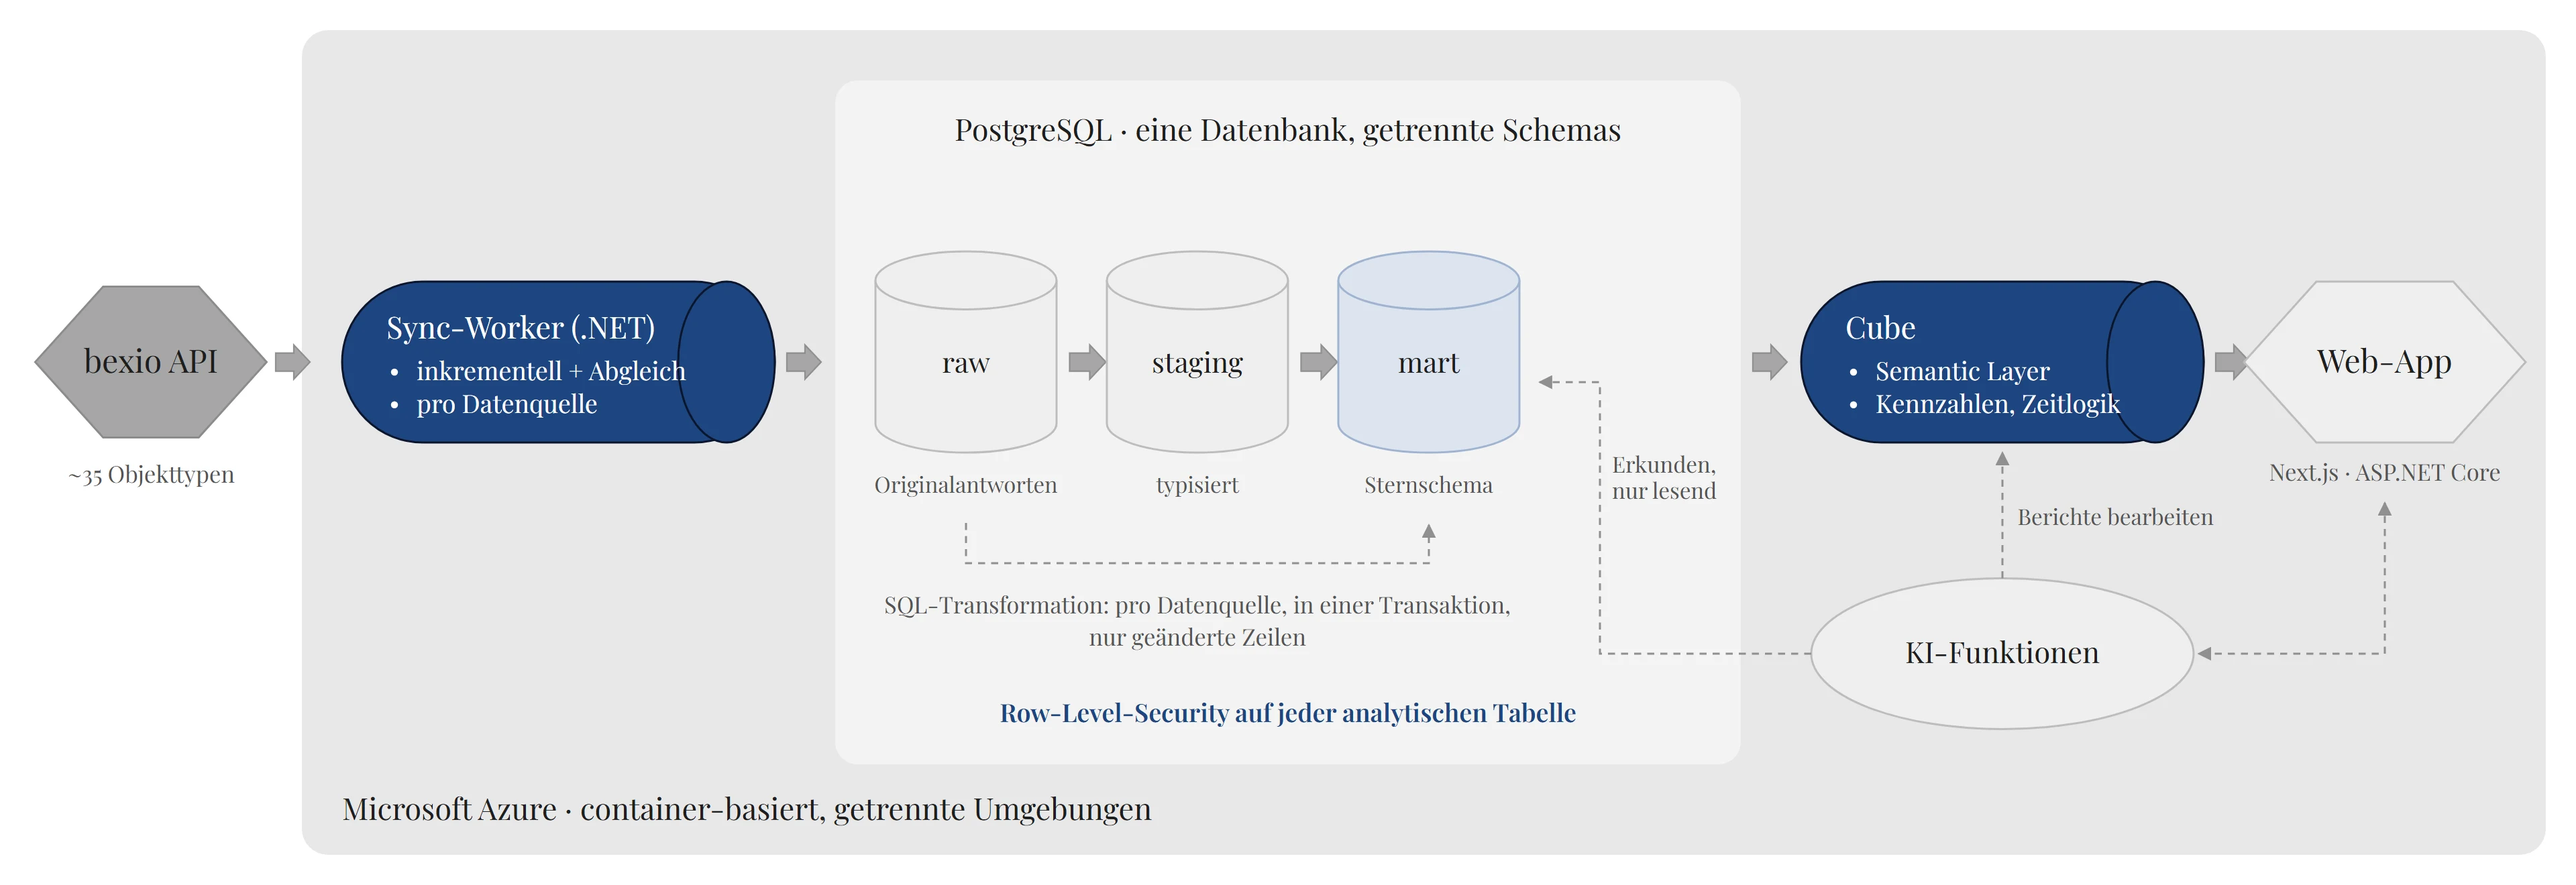
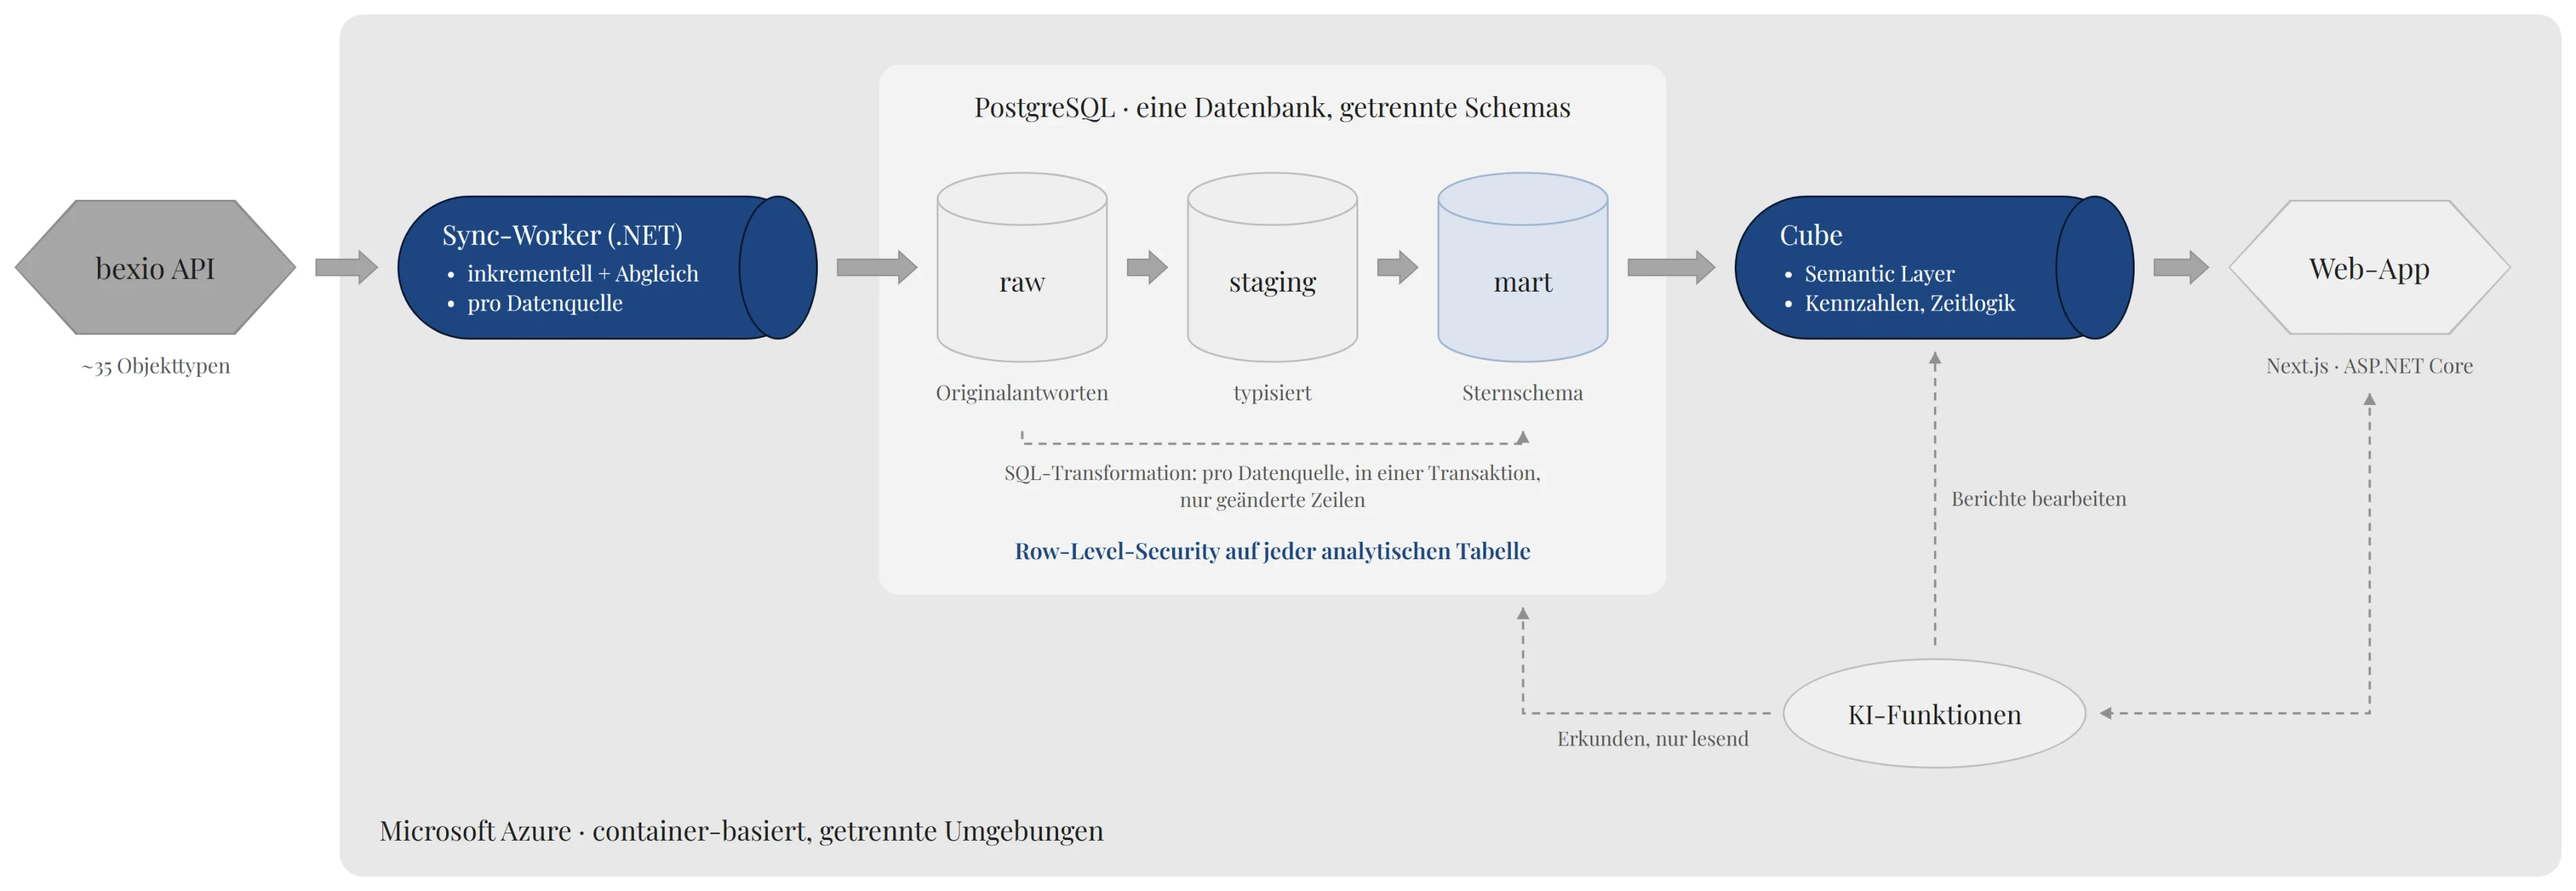
Rework connectors in smiit Analytics blog diagrams
Re-laid out the architecture, tenant-isolation and AI report-editing
diagrams (DE + EN): arrows now sit in their own gutters with clearance to
shapes and text, pill text no longer runs into the cylinder caps, and the
AI-editing steps are joined by a stepper line between the headings.
Content is unchanged; image dimensions updated accordingly.

diff --git a/content/blog/smiit-analytics-from-power-bi-to-saas.ts b/content/blog/smiit-analytics-from-power-bi-to-saas.ts
@@ -21,7 +21,7 @@ const smiitAnalyticsSaas: LocalizedBlogPost = {
     coverImage: {
       url: `${SA}/ai-report-editing.webp`,
       width: 1950,
-      height: 1013,
+      height: 1054,
       alt: "Berichte bearbeiten mit KI in smiit Analytics: Anweisung im Chat, Editor passt den Bericht an, KI erklärt die Änderungen",
     },
 
@@ -167,7 +167,7 @@ const smiitAnalyticsSaas: LocalizedBlogPost = {
         type: "image",
         src: `${SA}/architecture.webp`,
         width: 3840,
-        height: 1320,
+        height: 1329,
         maxWidth: 1040,
         alt: "Datenfluss von smiit Analytics: Die bexio API wird vom .NET-Sync-Worker gelesen, in PostgreSQL über die Schemas raw, staging und mart (Sternschema) aufbereitet, im Semantic Layer Cube modelliert und in der Web-App (Next.js, ASP.NET Core) angezeigt. KI-Funktionen bearbeiten Berichte über Cube und erkunden das mart-Schema nur lesend. Alles läuft auf Microsoft Azure.",
         caption: "Von der bexio API bis zum Bericht: eine Datenbank mit getrennten Schemas, ein zentraler Semantic Layer und Row-Level-Security auf jeder analytischen Tabelle.",
@@ -225,8 +225,8 @@ const smiitAnalyticsSaas: LocalizedBlogPost = {
       {
         type: "image",
         src: `${SA}/tenant-isolation.webp`,
-        width: 3600,
-        height: 1230,
+        width: 3840,
+        height: 1034,
         maxWidth: 1040,
         alt: "Drei Verteidigungslinien der Mandantentrennung: Berechtigung auf die Datenquelle, Kontext je Transaktion und Row-Level-Security mit FORCE. In der Datenbank sind für eine Anfrage von Firma A nur die Zeilen von Firma A sichtbar; Isolationstests prüfen gezielt Fremdzugriffe.",
         caption: "Mehrere Verteidigungslinien: Selbst wenn der Anwendungscode einen Filter vergisst, sieht eine Anfrage von Firma A nur die Zeilen von Firma A.",
@@ -368,7 +368,7 @@ const smiitAnalyticsSaas: LocalizedBlogPost = {
         type: "image",
         src: `${SA}/ai-report-editing.webp`,
         width: 1950,
-        height: 1013,
+        height: 1054,
         maxWidth: 1040,
         alt: "Berichte bearbeiten mit KI in drei Schritten: 1. Anweisung im Chat „Bitte zeige mir Cashflow und Deckungsbeitrag auf der Übersichtsseite und auch im Graphen als Entwicklung an.“ 2. Der Editor arbeitet am Bericht. 3. Die KI erklärt die Änderungen, weist darauf hin, dass der Deckungsbeitrag wegen fehlender interner Kostensätze leer ist, und listet vier Vorschläge für die Ansicht; übermittelt wurden 8 Zeilen und 0 Pseudonyme.",
         caption: "Berichte bearbeiten mit KI: Die KI arbeitet im Editor und liefert Vorschläge. Angewendet wird erst mit «Übernehmen».",
@@ -633,7 +633,7 @@ const smiitAnalyticsSaas: LocalizedBlogPost = {
     coverImage: {
       url: `${SA}/ai-report-editing-en.webp`,
       width: 1950,
-      height: 1035,
+      height: 1050,
       alt: "Editing reports with AI in smiit Analytics: instruction in the chat, the editor updates the report, the AI explains the changes",
     },
 
@@ -779,7 +779,7 @@ const smiitAnalyticsSaas: LocalizedBlogPost = {
         type: "image",
         src: `${SA}/architecture-en.webp`,
         width: 3840,
-        height: 1320,
+        height: 1323,
         maxWidth: 1040,
         alt: "smiit Analytics data flow: the .NET sync worker reads the bexio API, the data is prepared in PostgreSQL across the raw, staging and mart (star schema) schemas, modelled in the Cube semantic layer and displayed in the web app (Next.js, ASP.NET Core). AI features edit reports via Cube and explore the mart schema read-only. Everything runs on Microsoft Azure.",
         caption: "From the bexio API to the report: one database with separate schemas, a central semantic layer and row-level security on every analytical table.",
@@ -837,8 +837,8 @@ const smiitAnalyticsSaas: LocalizedBlogPost = {
       {
         type: "image",
         src: `${SA}/tenant-isolation-en.webp`,
-        width: 3600,
-        height: 1230,
+        width: 3840,
+        height: 1052,
         maxWidth: 1040,
         alt: "Three lines of defence for tenant isolation: authorisation for the data source, context per transaction and row-level security with FORCE. In the database, a request from company A only sees company A's rows; isolation tests deliberately attempt cross-tenant access.",
         caption: "Several lines of defence: even if application code forgets a filter, a request from company A only sees company A's rows.",
@@ -980,7 +980,7 @@ const smiitAnalyticsSaas: LocalizedBlogPost = {
         type: "image",
         src: `${SA}/ai-report-editing-en.webp`,
         width: 1950,
-        height: 1035,
+        height: 1050,
         maxWidth: 1040,
         alt: "Editing reports with AI in three steps: 1. Instruction in the chat: “Please show cash flow and contribution margin on the overview page, and their development in the chart as well.” 2. The editor works on the report. 3. The AI explains the changes, notes that the contribution margin is empty because internal cost rates are missing, and lists four suggestions for the view; 8 rows and 0 pseudonyms were sent to the AI.",
         caption: "Editing reports with AI: the AI works in the editor and delivers suggestions. Nothing is applied until the user clicks “Apply”.",
